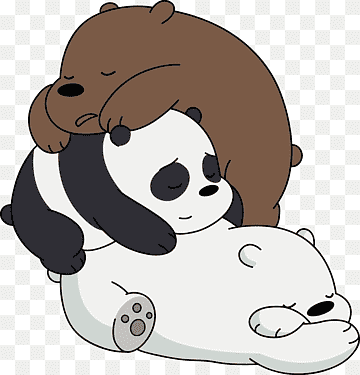
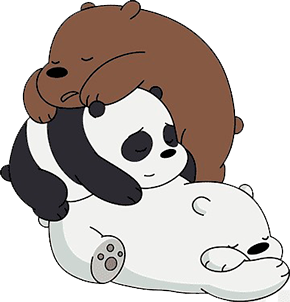
Se ajusto las dimensiones de imagen polar.png, se ajusto panel de Cuenta.

diff --git a/src/main/java/Ventanas/SIS_INF_2.java b/src/main/java/Ventanas/SIS_INF_2.java
@@ -1336,63 +1336,71 @@ public void setLabelText(JLabel label, String text) {
         pnlMenu.setLayout(pnlMenuLayout);
         pnlMenuLayout.setHorizontalGroup(
             pnlMenuLayout.createParallelGroup(javax.swing.GroupLayout.Alignment.LEADING)
-            .addGroup(javax.swing.GroupLayout.Alignment.TRAILING, pnlMenuLayout.createSequentialGroup()
-                .addContainerGap(19, Short.MAX_VALUE)
+            .addGroup(pnlMenuLayout.createSequentialGroup()
+                .addContainerGap(31, Short.MAX_VALUE)
                 .addGroup(pnlMenuLayout.createParallelGroup(javax.swing.GroupLayout.Alignment.LEADING)
-                    .addGroup(pnlMenuLayout.createParallelGroup(javax.swing.GroupLayout.Alignment.TRAILING, false)
-                        .addComponent(textCorreo, javax.swing.GroupLayout.Alignment.LEADING)
-                        .addComponent(PasswordFieldContraseña, javax.swing.GroupLayout.Alignment.LEADING, javax.swing.GroupLayout.DEFAULT_SIZE, 296, Short.MAX_VALUE))
                     .addGroup(javax.swing.GroupLayout.Alignment.TRAILING, pnlMenuLayout.createSequentialGroup()
-                        .addGroup(pnlMenuLayout.createParallelGroup(javax.swing.GroupLayout.Alignment.LEADING)
-                            .addComponent(jLabel5, javax.swing.GroupLayout.PREFERRED_SIZE, 167, javax.swing.GroupLayout.PREFERRED_SIZE)
-                            .addComponent(lblContraseña)
-                            .addComponent(lblCorreoTxt))
+                        .addComponent(jLabel5, javax.swing.GroupLayout.PREFERRED_SIZE, 167, javax.swing.GroupLayout.PREFERRED_SIZE)
                         .addGap(215, 215, 215))
                     .addGroup(pnlMenuLayout.createSequentialGroup()
-                        .addGap(6, 6, 6)
-                        .addComponent(pnlIngresar, javax.swing.GroupLayout.PREFERRED_SIZE, javax.swing.GroupLayout.DEFAULT_SIZE, javax.swing.GroupLayout.PREFERRED_SIZE)
-                        .addPreferredGap(javax.swing.LayoutStyle.ComponentPlacement.UNRELATED)
-                        .addComponent(pnlCrearCuenta, javax.swing.GroupLayout.PREFERRED_SIZE, 203, javax.swing.GroupLayout.PREFERRED_SIZE))))
+                        .addGroup(pnlMenuLayout.createParallelGroup(javax.swing.GroupLayout.Alignment.LEADING)
+                            .addComponent(textCorreo, javax.swing.GroupLayout.PREFERRED_SIZE, 296, javax.swing.GroupLayout.PREFERRED_SIZE)
+                            .addComponent(PasswordFieldContraseña, javax.swing.GroupLayout.PREFERRED_SIZE, 296, javax.swing.GroupLayout.PREFERRED_SIZE)
+                            .addComponent(lblContraseña)
+                            .addComponent(lblCorreoTxt))
+                        .addContainerGap())))
+            .addGroup(pnlMenuLayout.createSequentialGroup()
+                .addGroup(pnlMenuLayout.createParallelGroup(javax.swing.GroupLayout.Alignment.LEADING)
+                    .addGroup(pnlMenuLayout.createSequentialGroup()
+                        .addGap(99, 99, 99)
+                        .addComponent(pnlCrearCuenta, javax.swing.GroupLayout.PREFERRED_SIZE, 203, javax.swing.GroupLayout.PREFERRED_SIZE))
+                    .addGroup(pnlMenuLayout.createSequentialGroup()
+                        .addGap(113, 113, 113)
+                        .addComponent(pnlIngresar, javax.swing.GroupLayout.PREFERRED_SIZE, javax.swing.GroupLayout.DEFAULT_SIZE, javax.swing.GroupLayout.PREFERRED_SIZE)))
+                .addGap(0, 0, Short.MAX_VALUE))
         );
         pnlMenuLayout.setVerticalGroup(
             pnlMenuLayout.createParallelGroup(javax.swing.GroupLayout.Alignment.LEADING)
             .addGroup(pnlMenuLayout.createSequentialGroup()
                 .addGap(30, 30, 30)
                 .addComponent(jLabel5)
-                .addGap(32, 32, 32)
+                .addGap(42, 42, 42)
                 .addComponent(lblCorreoTxt)
-                .addPreferredGap(javax.swing.LayoutStyle.ComponentPlacement.RELATED)
+                .addGap(18, 18, 18)
                 .addComponent(textCorreo, javax.swing.GroupLayout.PREFERRED_SIZE, 34, javax.swing.GroupLayout.PREFERRED_SIZE)
                 .addGap(18, 18, 18)
                 .addComponent(lblContraseña)
-                .addPreferredGap(javax.swing.LayoutStyle.ComponentPlacement.UNRELATED)
+                .addGap(18, 18, 18)
                 .addComponent(PasswordFieldContraseña, javax.swing.GroupLayout.PREFERRED_SIZE, 30, javax.swing.GroupLayout.PREFERRED_SIZE)
-                .addGap(42, 42, 42)
-                .addGroup(pnlMenuLayout.createParallelGroup(javax.swing.GroupLayout.Alignment.TRAILING)
-                    .addComponent(pnlCrearCuenta, javax.swing.GroupLayout.PREFERRED_SIZE, javax.swing.GroupLayout.DEFAULT_SIZE, javax.swing.GroupLayout.PREFERRED_SIZE)
-                    .addComponent(pnlIngresar, javax.swing.GroupLayout.PREFERRED_SIZE, javax.swing.GroupLayout.DEFAULT_SIZE, javax.swing.GroupLayout.PREFERRED_SIZE))
-                .addContainerGap(55, Short.MAX_VALUE))
+                .addGap(50, 50, 50)
+                .addComponent(pnlIngresar, javax.swing.GroupLayout.PREFERRED_SIZE, javax.swing.GroupLayout.DEFAULT_SIZE, javax.swing.GroupLayout.PREFERRED_SIZE)
+                .addGap(30, 30, 30)
+                .addComponent(pnlCrearCuenta, javax.swing.GroupLayout.PREFERRED_SIZE, javax.swing.GroupLayout.DEFAULT_SIZE, javax.swing.GroupLayout.PREFERRED_SIZE)
+                .addContainerGap(65, Short.MAX_VALUE))
         );
+
+        jLabel6.setFont(new java.awt.Font("Roboto Slab Thin", 2, 36)); // NOI18N
+        jLabel6.setForeground(new java.awt.Color(0, 153, 153));
+        jLabel6.setText("POLAR TEAM");
 
         javax.swing.GroupLayout pnlImagenPolrLayout = new javax.swing.GroupLayout(pnlImagenPolr);
         pnlImagenPolr.setLayout(pnlImagenPolrLayout);
         pnlImagenPolrLayout.setHorizontalGroup(
             pnlImagenPolrLayout.createParallelGroup(javax.swing.GroupLayout.Alignment.LEADING)
+            .addComponent(lblImagenPolr, javax.swing.GroupLayout.DEFAULT_SIZE, javax.swing.GroupLayout.DEFAULT_SIZE, Short.MAX_VALUE)
             .addGroup(pnlImagenPolrLayout.createSequentialGroup()
-                .addComponent(lblImagenPolr, javax.swing.GroupLayout.PREFERRED_SIZE, 307, javax.swing.GroupLayout.PREFERRED_SIZE)
-                .addGap(0, 0, Short.MAX_VALUE))
+                .addContainerGap()
+                .addComponent(jLabel6, javax.swing.GroupLayout.PREFERRED_SIZE, 275, javax.swing.GroupLayout.PREFERRED_SIZE)
+                .addContainerGap(javax.swing.GroupLayout.DEFAULT_SIZE, Short.MAX_VALUE))
         );
         pnlImagenPolrLayout.setVerticalGroup(
             pnlImagenPolrLayout.createParallelGroup(javax.swing.GroupLayout.Alignment.LEADING)
             .addGroup(pnlImagenPolrLayout.createSequentialGroup()
-                .addContainerGap()
-                .addComponent(lblImagenPolr, javax.swing.GroupLayout.PREFERRED_SIZE, 338, javax.swing.GroupLayout.PREFERRED_SIZE)
+                .addComponent(jLabel6, javax.swing.GroupLayout.PREFERRED_SIZE, 86, javax.swing.GroupLayout.PREFERRED_SIZE)
+                .addPreferredGap(javax.swing.LayoutStyle.ComponentPlacement.RELATED)
+                .addComponent(lblImagenPolr, javax.swing.GroupLayout.PREFERRED_SIZE, 451, javax.swing.GroupLayout.PREFERRED_SIZE)
                 .addContainerGap(javax.swing.GroupLayout.DEFAULT_SIZE, Short.MAX_VALUE))
         );
-
-        jLabel6.setFont(new java.awt.Font("Roboto Slab Thin", 2, 24)); // NOI18N
-        jLabel6.setForeground(new java.awt.Color(0, 153, 153));
-        jLabel6.setText("POLAR TEAM");
 
         javax.swing.GroupLayout pnlContenido1Layout = new javax.swing.GroupLayout(pnlContenido1);
         pnlContenido1.setLayout(pnlContenido1Layout);
@@ -1402,25 +1410,17 @@ public void setLabelText(JLabel label, String text) {
                 .addContainerGap()
                 .addComponent(pnlMenu, javax.swing.GroupLayout.PREFERRED_SIZE, javax.swing.GroupLayout.DEFAULT_SIZE, javax.swing.GroupLayout.PREFERRED_SIZE)
                 .addPreferredGap(javax.swing.LayoutStyle.ComponentPlacement.RELATED)
-                .addGroup(pnlContenido1Layout.createParallelGroup(javax.swing.GroupLayout.Alignment.LEADING)
-                    .addGroup(pnlContenido1Layout.createSequentialGroup()
-                        .addComponent(pnlImagenPolr, javax.swing.GroupLayout.DEFAULT_SIZE, javax.swing.GroupLayout.DEFAULT_SIZE, Short.MAX_VALUE)
-                        .addContainerGap())
-                    .addGroup(pnlContenido1Layout.createSequentialGroup()
-                        .addComponent(jLabel6, javax.swing.GroupLayout.PREFERRED_SIZE, 167, javax.swing.GroupLayout.PREFERRED_SIZE)
-                        .addGap(79, 79, 79))))
+                .addComponent(pnlImagenPolr, javax.swing.GroupLayout.DEFAULT_SIZE, javax.swing.GroupLayout.DEFAULT_SIZE, Short.MAX_VALUE)
+                .addContainerGap())
         );
         pnlContenido1Layout.setVerticalGroup(
             pnlContenido1Layout.createParallelGroup(javax.swing.GroupLayout.Alignment.LEADING)
             .addGroup(pnlContenido1Layout.createSequentialGroup()
                 .addContainerGap()
                 .addGroup(pnlContenido1Layout.createParallelGroup(javax.swing.GroupLayout.Alignment.LEADING, false)
-                    .addGroup(pnlContenido1Layout.createSequentialGroup()
-                        .addComponent(pnlImagenPolr, javax.swing.GroupLayout.PREFERRED_SIZE, 311, javax.swing.GroupLayout.PREFERRED_SIZE)
-                        .addPreferredGap(javax.swing.LayoutStyle.ComponentPlacement.RELATED, javax.swing.GroupLayout.DEFAULT_SIZE, Short.MAX_VALUE)
-                        .addComponent(jLabel6))
-                    .addComponent(pnlMenu, javax.swing.GroupLayout.PREFERRED_SIZE, javax.swing.GroupLayout.DEFAULT_SIZE, javax.swing.GroupLayout.PREFERRED_SIZE))
-                .addContainerGap(20, Short.MAX_VALUE))
+                    .addComponent(pnlMenu, javax.swing.GroupLayout.DEFAULT_SIZE, javax.swing.GroupLayout.DEFAULT_SIZE, Short.MAX_VALUE)
+                    .addComponent(pnlImagenPolr, javax.swing.GroupLayout.PREFERRED_SIZE, 0, Short.MAX_VALUE))
+                .addContainerGap(javax.swing.GroupLayout.DEFAULT_SIZE, Short.MAX_VALUE))
         );
 
         javax.swing.GroupLayout pnlPgCuentaLayout = new javax.swing.GroupLayout(pnlPgCuenta);
@@ -1429,15 +1429,15 @@ public void setLabelText(JLabel label, String text) {
             pnlPgCuentaLayout.createParallelGroup(javax.swing.GroupLayout.Alignment.LEADING)
             .addGroup(pnlPgCuentaLayout.createSequentialGroup()
                 .addContainerGap()
-                .addComponent(pnlContenido1, javax.swing.GroupLayout.PREFERRED_SIZE, 718, Short.MAX_VALUE)
+                .addComponent(pnlContenido1, javax.swing.GroupLayout.DEFAULT_SIZE, javax.swing.GroupLayout.DEFAULT_SIZE, Short.MAX_VALUE)
                 .addContainerGap())
         );
         pnlPgCuentaLayout.setVerticalGroup(
             pnlPgCuentaLayout.createParallelGroup(javax.swing.GroupLayout.Alignment.LEADING)
             .addGroup(pnlPgCuentaLayout.createSequentialGroup()
                 .addContainerGap()
-                .addComponent(pnlContenido1, javax.swing.GroupLayout.PREFERRED_SIZE, javax.swing.GroupLayout.DEFAULT_SIZE, javax.swing.GroupLayout.PREFERRED_SIZE)
-                .addContainerGap(141, Short.MAX_VALUE))
+                .addComponent(pnlContenido1, javax.swing.GroupLayout.PREFERRED_SIZE, 517, javax.swing.GroupLayout.PREFERRED_SIZE)
+                .addContainerGap(42, Short.MAX_VALUE))
         );
 
         jTabbedPane2.addTab("tab2", pnlPgCuenta);
@@ -1517,7 +1517,7 @@ public void setLabelText(JLabel label, String text) {
                 jButton1MouseClicked(evt);
             }
         });
-        pnlFondo.add(jButton1, new org.netbeans.lib.awtextra.AbsoluteConstraints(660, 620, -1, -1));
+        pnlFondo.add(jButton1, new org.netbeans.lib.awtextra.AbsoluteConstraints(640, 620, -1, -1));
 
         jButton2.setText("atras");
         jButton2.addMouseListener(new java.awt.event.MouseAdapter() {
@@ -1525,7 +1525,7 @@ public void setLabelText(JLabel label, String text) {
                 jButton2MouseClicked(evt);
             }
         });
-        pnlFondo.add(jButton2, new org.netbeans.lib.awtextra.AbsoluteConstraints(490, 610, -1, -1));
+        pnlFondo.add(jButton2, new org.netbeans.lib.awtextra.AbsoluteConstraints(520, 620, -1, -1));
 
         javax.swing.GroupLayout layout = new javax.swing.GroupLayout(getContentPane());
         getContentPane().setLayout(layout);
